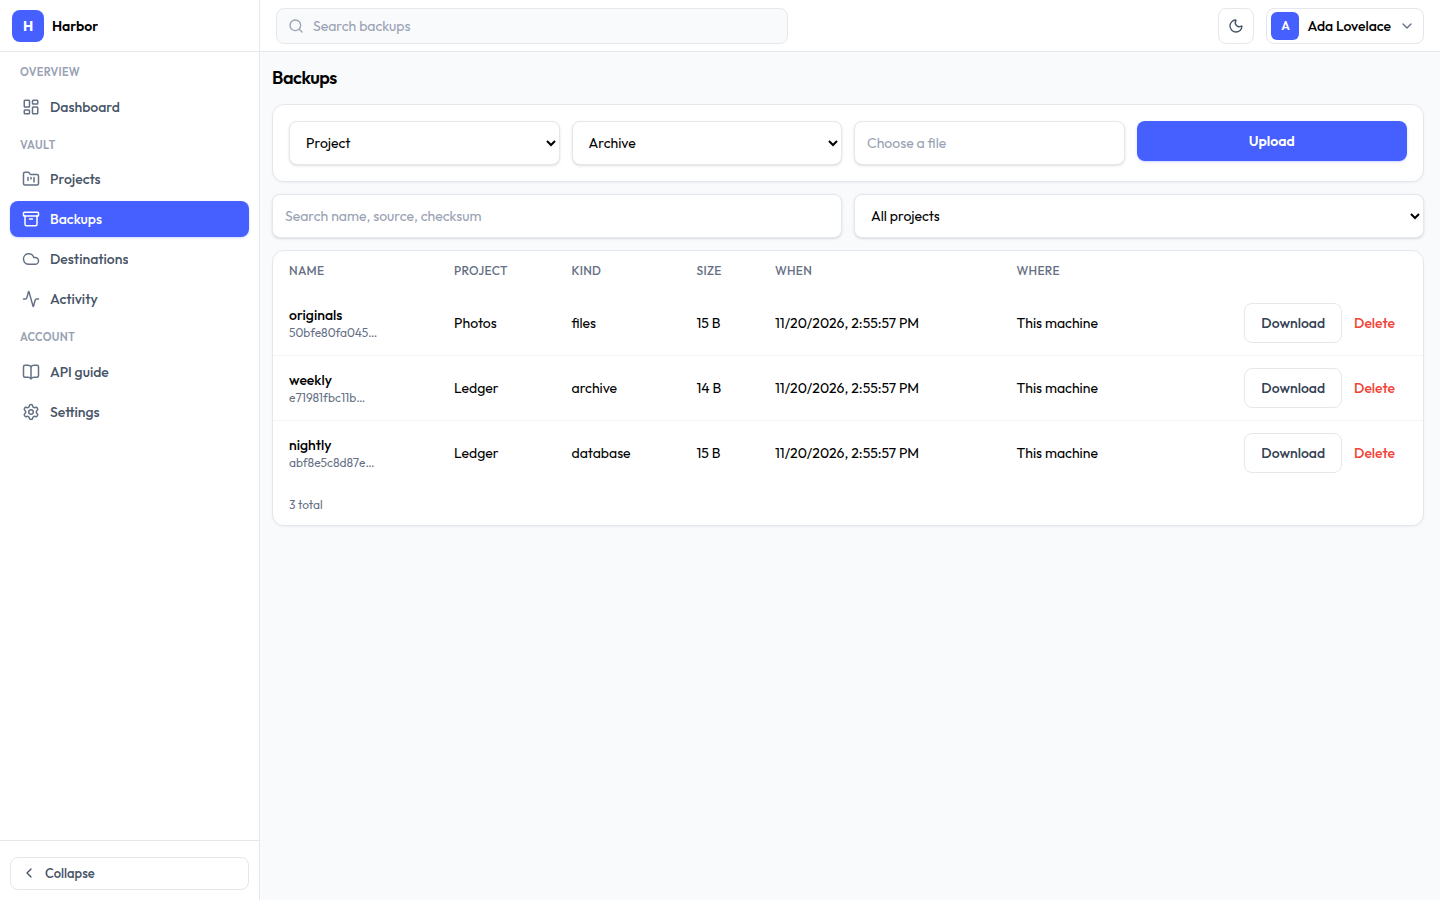
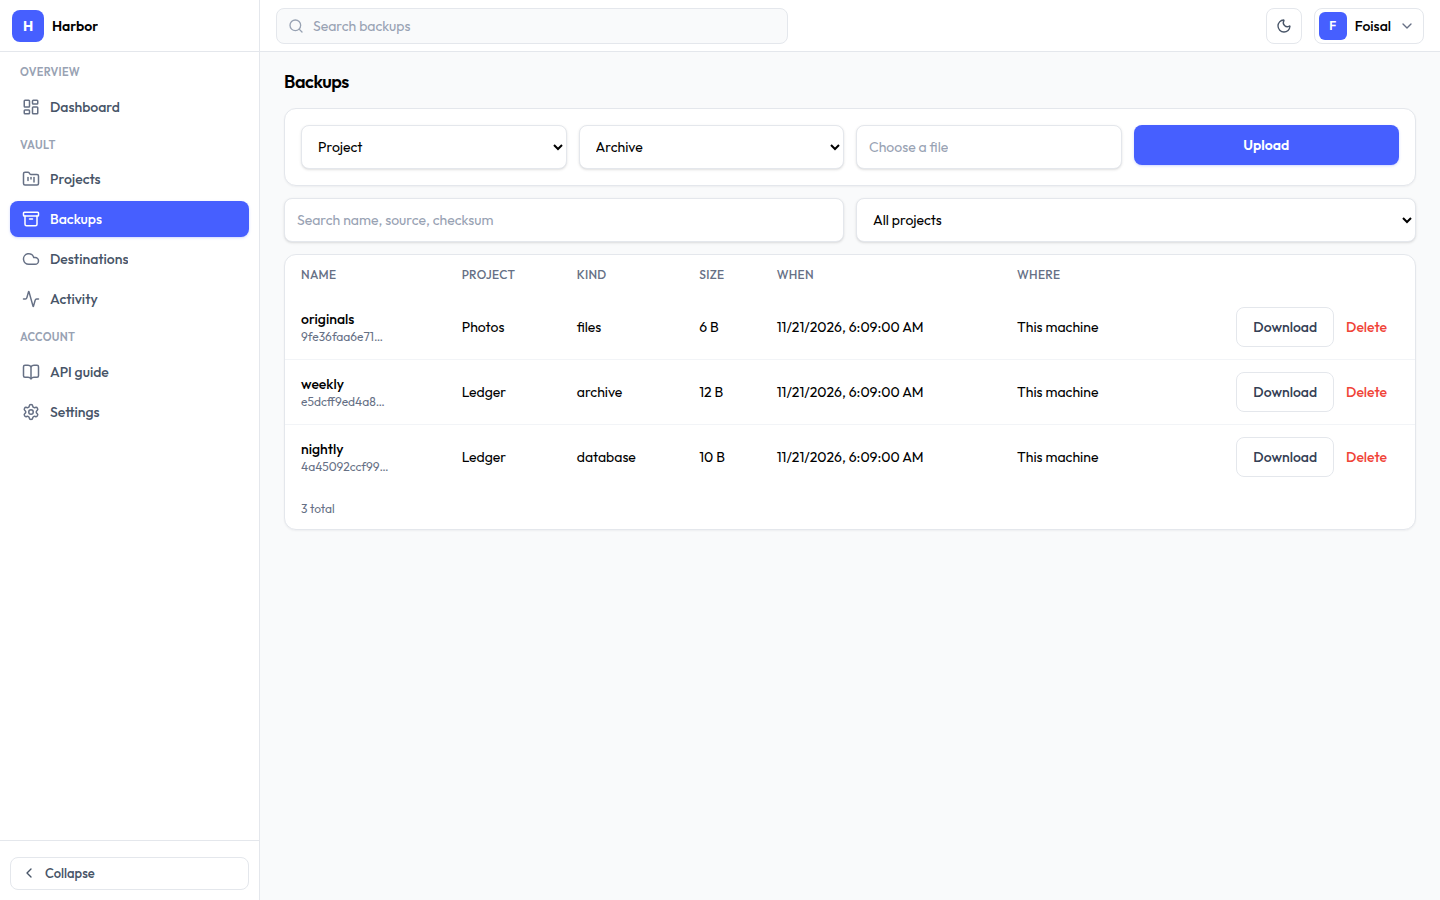
Let panel pages fill the width beside the sidebar.
The admin content column was capped at 72rem, so wide screens left a blank band on the right. Pages now use the available width with the same inset on small and large viewports.

diff --git a/apps/panel/src/layouts/AdminDashboardLayout.tsx b/apps/panel/src/layouts/AdminDashboardLayout.tsx
@@ -26,7 +26,7 @@ export function AdminDashboardLayout() {
         <div className="flex min-h-0 min-w-0 flex-1 flex-col overflow-hidden">
           <AdminHeader />
           <main className="admin-scrollbar min-h-0 flex-1 overflow-y-auto overflow-x-hidden">
-            <div className="w-full px-2 py-3 sm:px-3">
+            <div className="w-full px-4 py-4 sm:px-6">
               <Outlet />
             </div>
           </main>

diff --git a/apps/panel/src/admin.css b/apps/panel/src/admin.css
@@ -21,7 +21,7 @@
 
 .admin-content {
   width: 100%;
-  max-width: 72rem;
+  max-width: none;
 }
 
 .admin-topbar {

diff --git a/CHANGELOG.md b/CHANGELOG.md
@@ -6,6 +6,10 @@ The format is based on [Keep a Changelog](https://keepachangelog.com/en/1.1.0/),
 
 ## [Unreleased]
 
+### Changed
+
+- Panel pages use the full width beside the sidebar, with the same padding on narrow and wide screens.
+
 ## [0.2.0] - 2026-11-20
 
 ### Security
